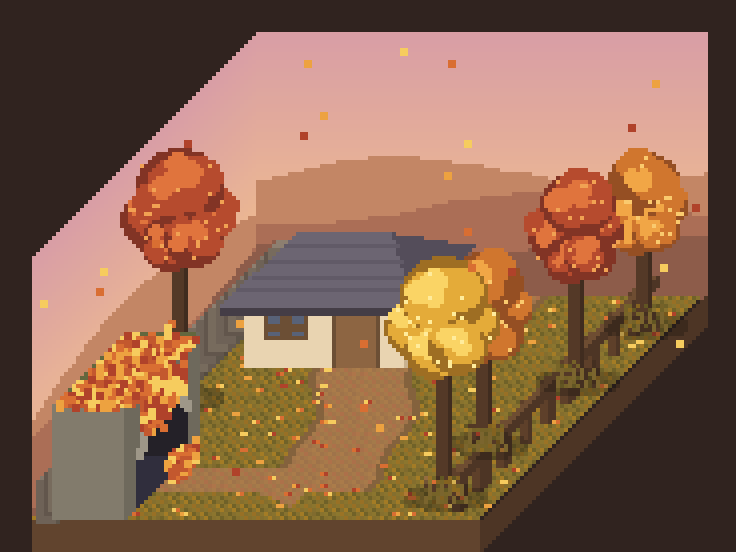
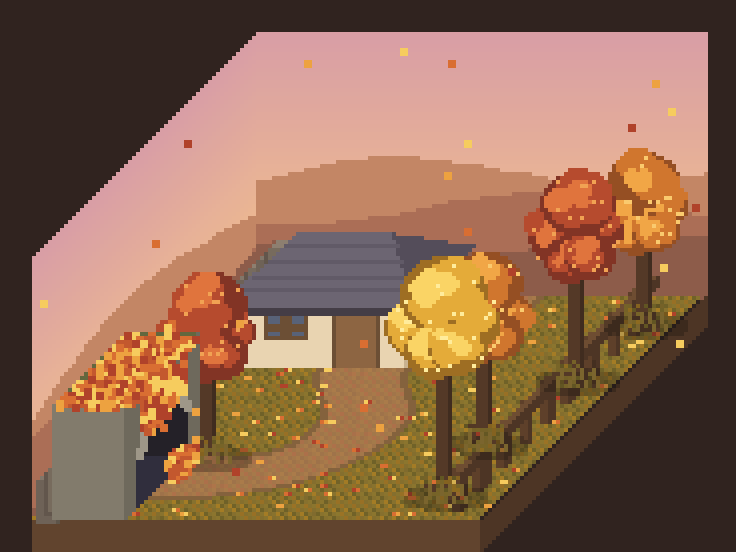
Autumn scene: smooth curved path from tunnel mouth, tree beside tunnel moved down to the ground
Claude-Session: https://claude.ai/code/session_01FPZSaKiVNU2zED737yZX4w

diff --git a/tools/render_autumn.py b/tools/render_autumn.py
@@ -57,15 +57,16 @@ def build():
         pts = [(0, 0, 0)] + [(0, dd, base - 4 + amp * (.5 + .5 * math.sin(dd / 30 + ph))) for dd in range(0, D + 1, 4)] + [(0, D, 0)]
         sc.poly(pts, col)
     # 땅: 가을 풀밭 + 구불구불한 흙길
+    pxm = lambda d: 56 + 8 * math.sin(d / 16.0) + 3 * math.sin(d / 7.0)
+    P0, P3 = (22.0, 20.0), (pxm(48), 48.0); P1, P2 = (P0[0] + 26, 20.0), (P3[0], 26.0)               # 터널 입구에서 시작해 부드럽게 위쪽 길과 이어지는 곡선
+    bez = [tuple((1 - u) ** 3 * P0[i] + 3 * (1 - u) ** 2 * u * P1[i] + 3 * (1 - u) * u * u * P2[i] + u ** 3 * P3[i] for i in (0, 1)) for u in [k / 60.0 for k in range(61)]]
     def ground(x, d):
         c = 78 + int(noise(x, d) * 14); n = noise(x, d, 3)
         grass = (c + 40, c + 22, 40) if n < .55 else (c + 66, c + 28, 30) if n < .8 else (c + 20, c + 10, 34)
-        px = 56 + 8 * math.sin(d / 16.0) + 3 * math.sin(d / 7.0)
-        if 22 <= x < 62 and abs(d - 20) < 6.5 + (0 if x < 50 else (x - 50) * .6): return (150 + int(noise(x, d, 1) * 18), 106 + int(noise(x, d, 2) * 14), 70)   # 터널 입구에서 곧장 뻗는 길
-        if d < 14: return grass
-        a = abs(x - px)
-        if a < 11: return (150 + int(noise(x, d, 1) * 18), 106 + int(noise(x, d, 2) * 14), 70)
-        if a < 13: return (122, 90, 56)
+        a = min(math.hypot(x - bx, d - bd) for bx, bd in bez)
+        if d >= 48: a = abs(x - pxm(d))
+        if a < 7.5 + 2.5 * min(1.0, d / 40.0): return (150 + int(noise(x, d, 1) * 18), 106 + int(noise(x, d, 2) * 14), 70)
+        if a < 9.5 + 2.5 * min(1.0, d / 40.0): return (122, 90, 56)
         return grass
     sc.floor(ground)
     # 단면(앞·오른쪽) 흙 두께
@@ -109,7 +110,7 @@ def build():
         sc.jobs.append((d, f))
     house(14, D - 34, 40, 22, 16)
     # 나무: 단풍(주황·빨강)·은행(노랑)·감나무
-    for x, d, h, k, sp in ((6, 62, 50, 'red', 12), (94, 38, 38, 'orange', 10), (97, 12, 48, 'gold', 12), (101, 70, 42, 'red', 10), (104, 98, 34, 'orange', 9)):
+    for x, d, h, k, sp in ((27, 33, 36, 'red', 10), (94, 38, 38, 'orange', 10), (97, 12, 48, 'gold', 12), (101, 70, 42, 'red', 10), (104, 98, 34, 'orange', 9)):
         tree(sc, x, d, h, k, rng, sp)
     # 터널 출구(약간만 보임): 왼쪽 앞 구석, 풀이 덮인 언덕 속 콘크리트 아치. 오른쪽 면에 아치 입구, 흙길이 거기서 시작한다
     def portal():
